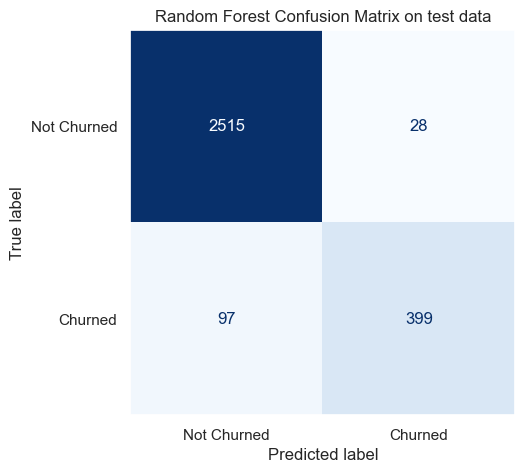
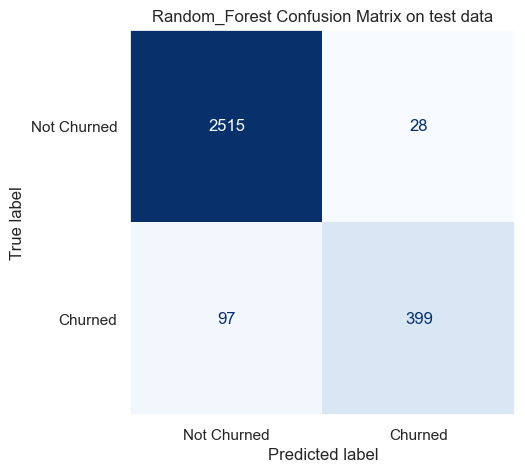
updating with pylint

Changed region(s): [[0.2743, 0.0, 0.9448, 0.0592]]

diff --git a/churn_library.py b/churn_library.py
@@ -410,8 +410,7 @@ def train_models(X_train, X_test, y_train, y_test):
         ax=ax,
         alpha=0.8
     )
-    plt.close()
-
+    
     plot_roc_curve(lrc, X_test, y_test, ax=ax, alpha=0.8)
 
     # save ROC-curves to images directory
@@ -427,9 +426,9 @@ def train_models(X_train, X_test, y_train, y_test):
     joblib.dump(lrc, './models/logistic_model.pkl')
 
     # Display confusion matrix on test data
-    confusion_matrix(cv_rfc.best_estimator_, 'Random Forest', X_test, y_test)
+    confusion_matrix(cv_rfc.best_estimator_, 'Random_Forest', X_test, y_test)
     plt.close()
-    confusion_matrix(lrc, 'Logistic Regression', X_test, y_test)
+    confusion_matrix(lrc, 'Logistic_Regression', X_test, y_test)
     plt.close()
 
 
